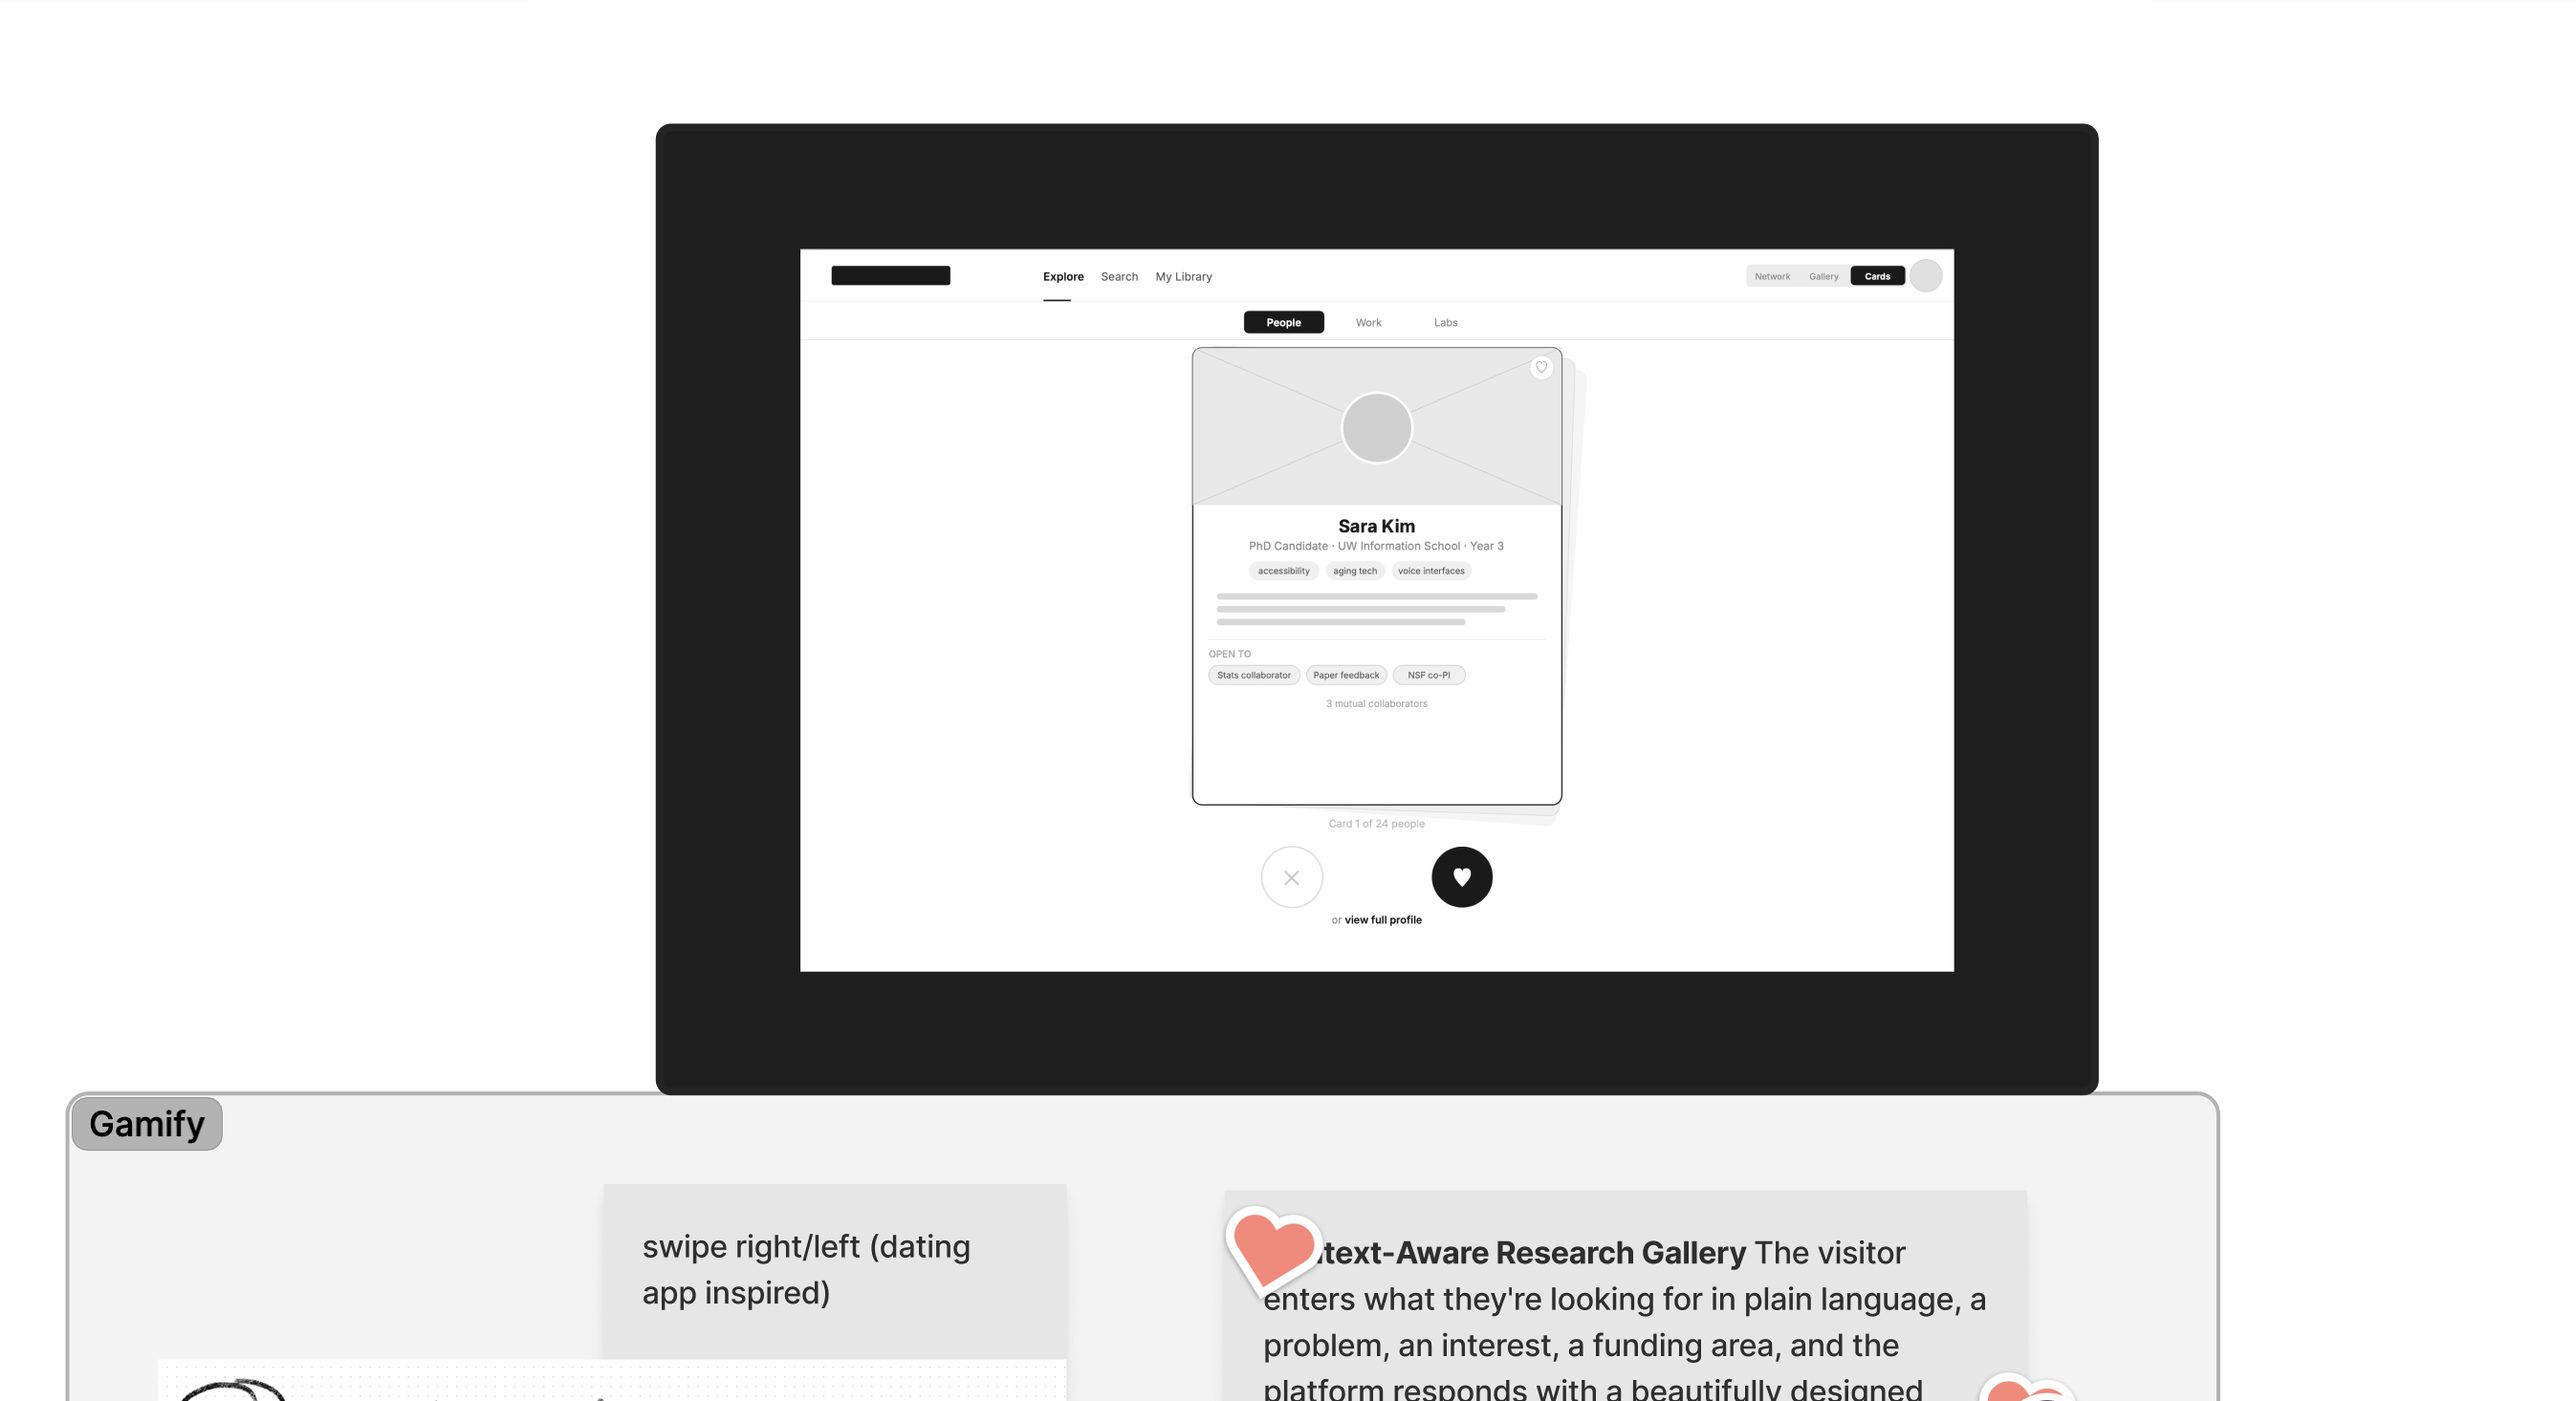
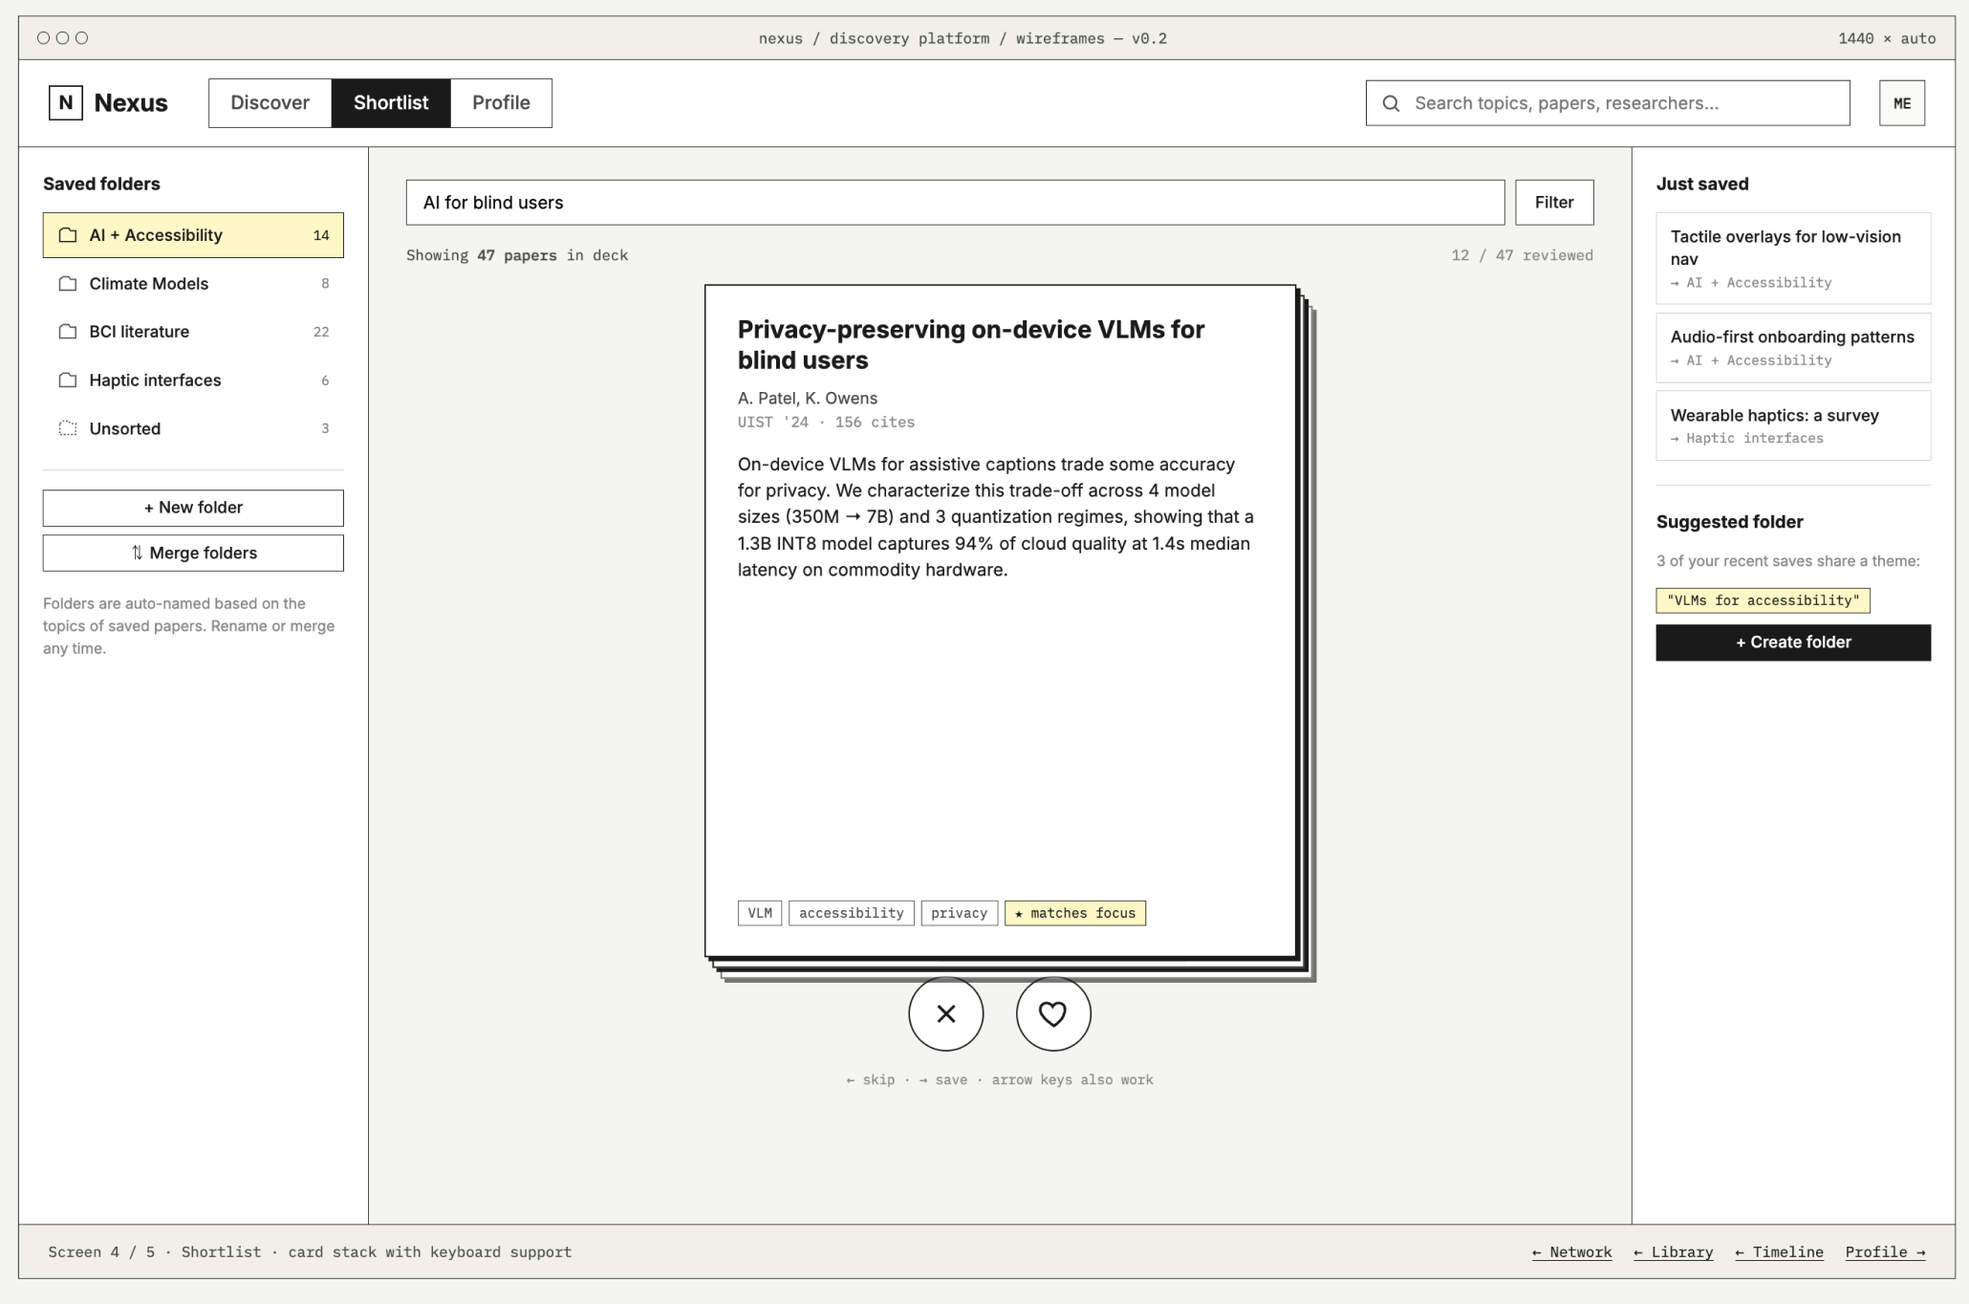
22

diff --git a/index.html b/index.html
@@ -18,6 +18,7 @@
     --shadow: 0 1px 8px rgba(0,0,0,0.07);
     --dur:    0.32s;
     --ease:   cubic-bezier(0.4,0,0.2,1);
+    --slide-h: calc(100vh - 56px); /* leave room for controls */
   }
 
   *, *::before, *::after { box-sizing: border-box; margin: 0; padding: 0; }
@@ -35,7 +36,7 @@
 
   /* ── Shell ── */
   #deck {
-    width: min(980px, 96vw);
+    width: min(96vw, calc(var(--slide-h) * 16 / 9));
     aspect-ratio: 16/9;
     position: relative;
     overflow: hidden;
@@ -1136,7 +1137,7 @@
      Controls
   ───────────────────────────── */
   #controls {
-    width: min(980px, 96vw);
+    width: min(96vw, calc(var(--slide-h) * 16 / 9));
     display: flex;
     align-items: center;
     justify-content: space-between;
@@ -1158,7 +1159,7 @@
   #slide-counter { color: rgba(255,255,255,0.4); font-size: 13px; }
   .slide-footer { display: none; }
   #progress-wrap {
-    width: min(980px, 96vw);
+    width: min(96vw, calc(var(--slide-h) * 16 / 9));
     height: 3px;
     background: rgba(255,255,255,0.08);
     border-radius: 2px;
